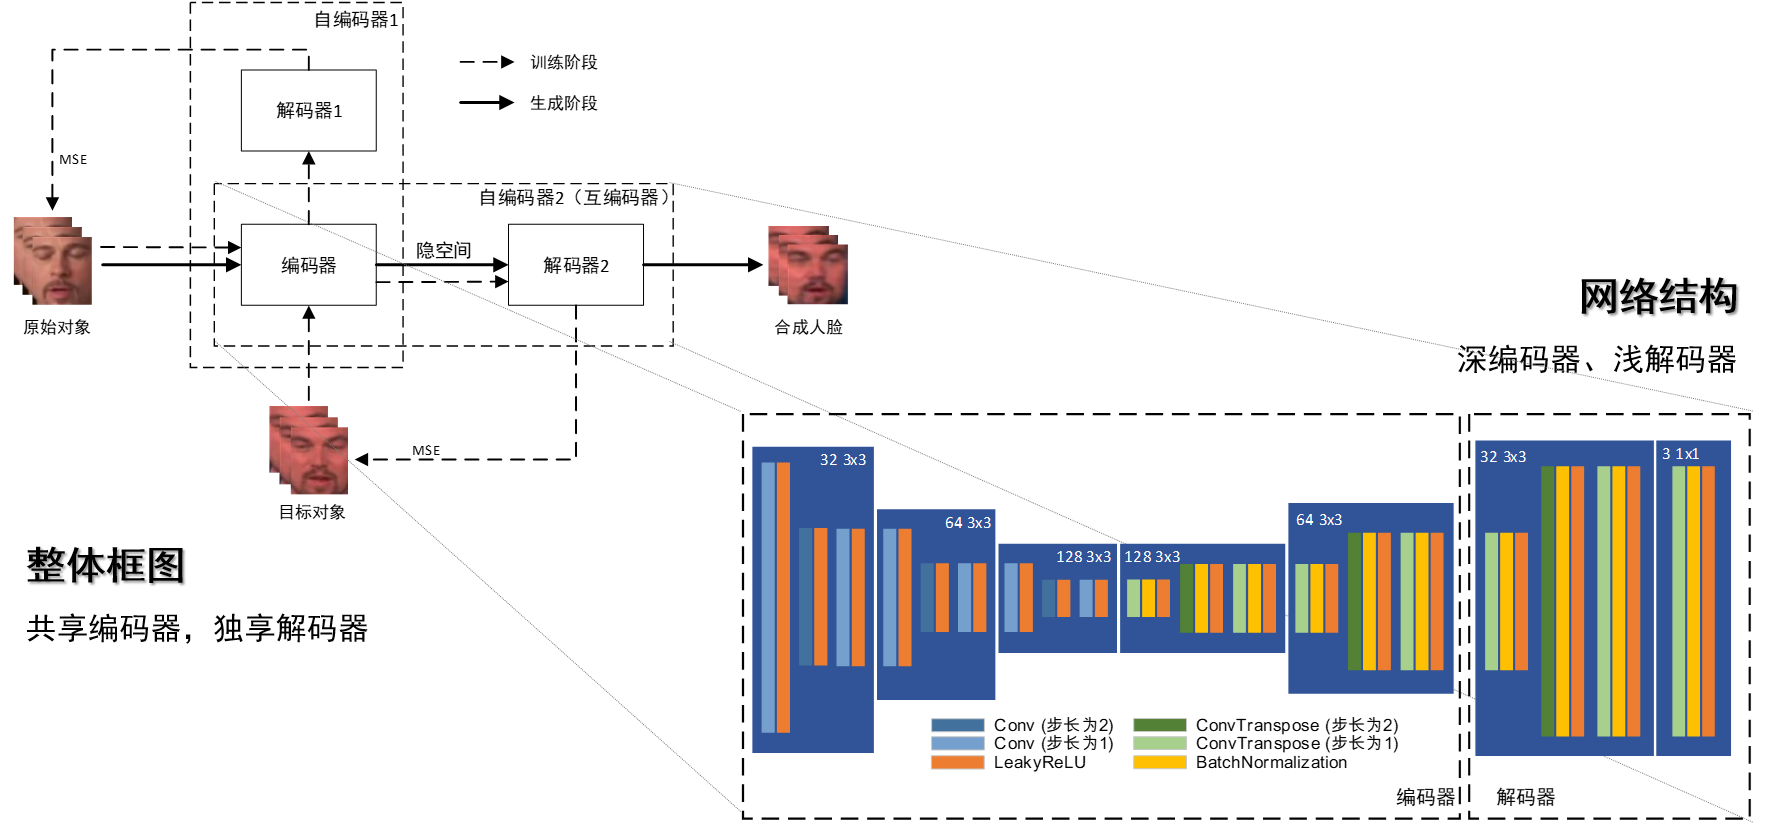
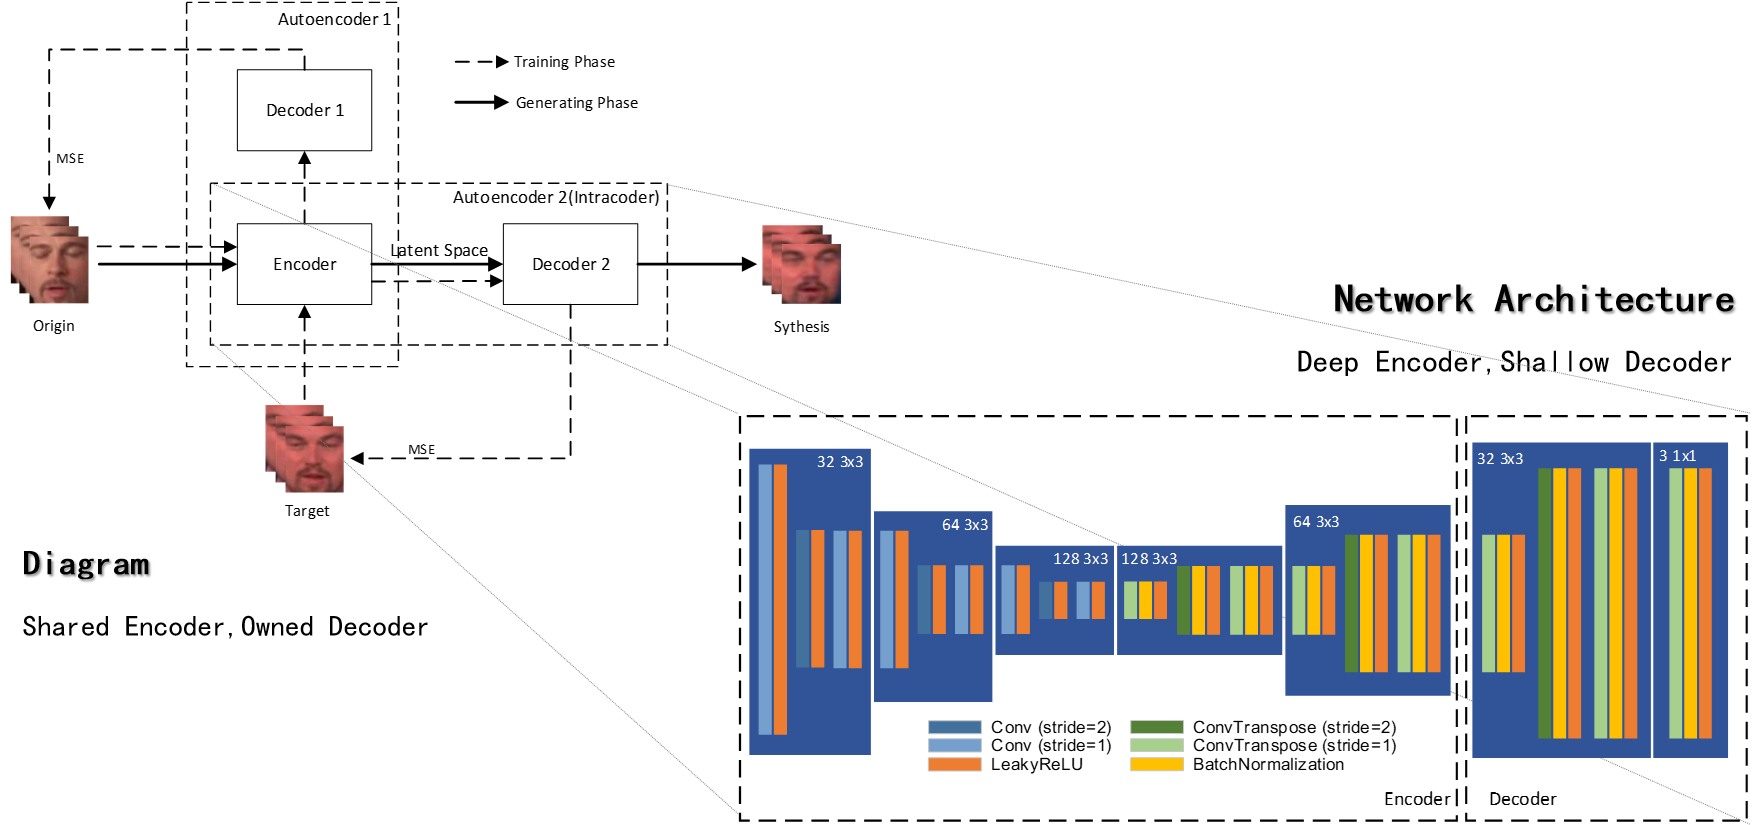
translate readme images

diff --git a/readme.md b/readme.md
@@ -1,6 +1,6 @@
 # Faceswap
 
-This is my graduate design for bachelor degree. The main focus will be the implementation of a complete pipeline of face swap (or deepfake generation) rather than innovations. 
+This is my graduate design for bachelor degree. The main focus is the implementation of a complete pipeline of face swap (or deepfake generation) rather than innovations. 
 
 The capability of this pipeline is very limited. It cannot cope with drastic gestures, tiny region of interests, inappropriate light, etc.
 
@@ -34,7 +34,7 @@ The results are acquired on the Celeb-DF dataset (http://www.cs.albany.edu/~lsw/
 
 ### Face swap performance
 
-<p text-align="center"><img width=90% src="imgs/faceswaps.png"/></p>
+<img width=100% src="imgs/faceswaps.png"></img>
 
 The solid line connects faces with same gesture, the dotted line connects faces with same identity. The performance of this algorithm I adopted is limited as you can see.
 
@@ -63,7 +63,9 @@ The problem is very obvious. The pipeline only tampered the core zone of human f
 
 But this problem comes from the mechanism of the generating process I adopted, it appears in other methods with the same mechanism too.
 
-## Algorithm
+## Method
+
+
 
 <img width=100% src="imgs/skeleton.png" style="float:center"/>
 
@@ -86,7 +88,7 @@ The last two modules will be the major works:
 
 <img width=100% src="imgs/intracoder.png" style="float:center"/>
 
-The "intracoder" is a pair of autoencoders trained and used with swapped decoder. I adopt the most common structure of stacked convolutional layers. 
+The "intracoder" is a pair of autoencoders trained and used with swapped decoder. I adopt the most common structure of stacked convolutional layers[^1]. 
 
 The shared encoder is deeper than seperate decoder as shown. It's designed under the presumption that the deep layer contains more abstract information of input and shallow layer contains more concrete information of input.
 
@@ -113,3 +115,7 @@ But in my scenario, I also wish to upsample the generated faces so that I could 
 
  I believe that this techique can be adopted for good purpose and Disneyland has made its effort. If utilized properly, this could be a revolution for movie factory and other related infustries.
 
+****
+
+
+[^1]: The exact design of architecture is not very crucial.
